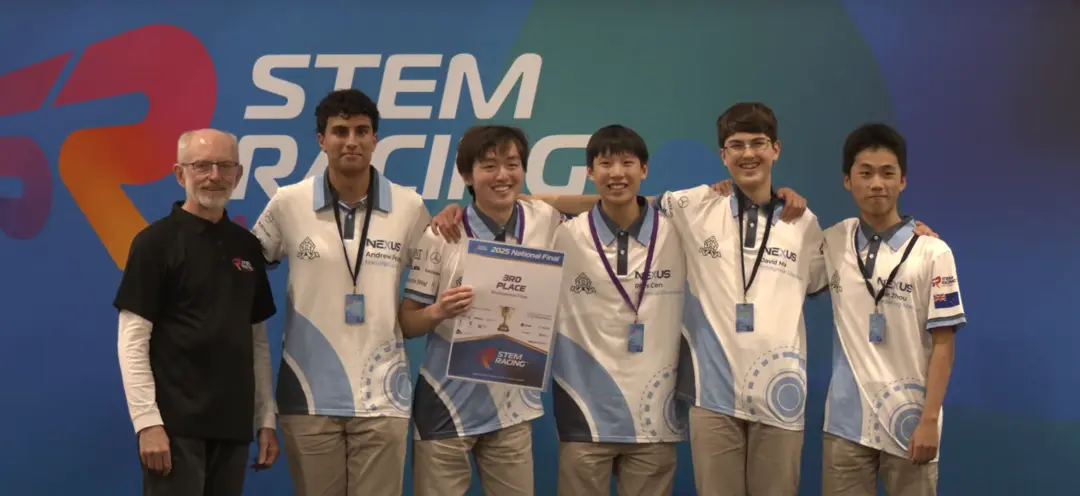
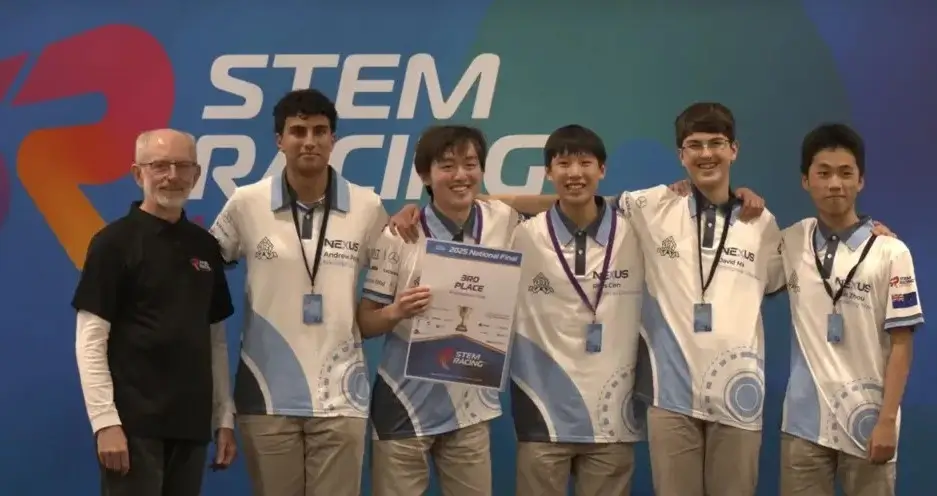
Update Images
Updated all images to more recent ones

diff --git a/index.html b/index.html
@@ -82,7 +82,7 @@
             </div>
             <div class="col d-flex">
                 <a href="https://www.stemracing.com/" class="sr logo d-flex align-items-center">
-                    <img id="sr-logo" src="assets/img/logos/stem-racing.png" height="40px" alt="STEM Racing Official Logo">
+                    <img id="sr-logo" src="assets/img/logos/stem-racing.webp" height="40px" alt="STEM Racing Official Logo">
                 </a>
                 <script>
                     const navbar = document.querySelector('.header');
@@ -91,10 +91,10 @@
 
                     window.addEventListener('scroll', () => {
                         if (window.scrollY > 100) {             // adjust scroll threshold
-                            logo.src = 'assets/img/logos/stem-racing-dark.png';           // alternate logo
+                            logo.src = 'assets/img/logos/stem-racing-dark.webp';           // alternate logo
                             bar.setAttribute("fill", "#3a3a3a");
                         } else {
-                            logo.src = 'assets/img/logos/stem-racing.png';          // original logo
+                            logo.src = 'assets/img/logos/stem-racing.webp';          // original logo
                             bar.setAttribute("fill", "#FFF");
                         }
                     });
@@ -122,7 +122,7 @@
     <!-- Hero Section -->
     <section id="hero" class="hero section dark-background">
 
-        <img src="assets/img/hero-bg.jpg" class="hero-bg" alt="STEM Racing Cars on the Track" data-aos="fade-in">
+        <img src="assets/img/hero-bg.webp" class="hero-bg" alt="Nexus Rebirth on Display at the State Finals" data-aos="fade-in">
         <div class="container text-center" data-aos="fade-up" data-aos-delay="100">
             <img src="assets/img/alt.webp" width="" class="img-fluid mxy-3 main-logo" alt="Nexus STEM Racing Team Logo">
             <h2>Australian National Finals</h2>
@@ -169,7 +169,7 @@
                 </div>
 
                 <div class="col-lg-6 order-2 order-lg-1 content" data-aos="fade-up" data-aos-delay="300">
-                    <img src="assets/img/logos/stem-racing-dark.png" height="50px" alt="STEM Racing Official Logo">
+                    <img src="assets/img/logos/stem-racing-dark.webp" height="50px" alt="STEM Racing Official Logo">
                     <hr>
                     <h4>What is STEM Racing?</h4>
                     <p class="fst-normal">
@@ -395,7 +395,7 @@
     <!-- Call To Action Section -->
     <section id="call-to-action" class="call-to-action section dark-background">
 
-        <img src="assets/img/portfolio/cars.webp" alt="Nexus LeapYear F1 cars ready to race">
+        <img src="assets/img/portfolio/call.webp" alt="Nexus celebrating 2nd Place at the State Finals">
 
         <div class="container">
 
@@ -438,73 +438,92 @@
 
                 <div class="row gy-4 isotope-container" data-aos="fade-up" data-aos-delay="200">
 
-                    <div class="col-lg-4 col-md-6 portfolio-item isotope-item">
+                    <div class="col-lg-3 col-md-6 portfolio-item isotope-item">
                         <a href="assets/img/portfolio/awards.webp" data-title="<strong>Nexus receiving 3rd Place</strong><br><small>Image Credit: Off the Track</small>" data-gallery="portfolio-gallery" class="glightbox preview-link">
                             <img src="assets/img/portfolio/awards.webp" class="img-fluid" alt="Nexus receiving 3rd place award at Australian National Finals">
                         </a>
                     </div>
 
-                    <div class="col-lg-4 col-md-6 portfolio-item isotope-item">
+                    <div class="col-lg-3 col-md-6 portfolio-item isotope-item">
                         <a href="assets/img/portfolio/manufacturing.webp" data-title="<strong>Christian manufacturing our 2025 State Finals Car</strong><br><small>Image Credit: Nexus</small>" data-gallery="portfolio-gallery" class="glightbox preview-link">
                             <img src="assets/img/portfolio/manufacturing.webp" class="img-fluid" alt="Christian manufacturing the Nexus 2025 State Finals car">
                         </a>
                     </div>
 
-                    <div class="col-lg-4 col-md-6 portfolio-item isotope-item">
+                    <div class="col-lg-3 col-md-6 portfolio-item isotope-item">
                         <a href="assets/img/portfolio/racing.webp" data-title="<strong>Rhys racing at the 2025 National Finals</strong><br><small>Image Credit: Off the Track</small>" data-gallery="portfolio-gallery" class="glightbox preview-link">
                             <img src="assets/img/portfolio/racing.webp" class="img-fluid" alt="Rhys racing Nexus LeapYear at 2025 National Finals">
                         </a>
                     </div>
 
-                    <div class="col-lg-4 col-md-6 portfolio-item isotope-item">
-                        <a href="assets/img/portfolio/folios.webp" data-title="<strong>Portfolio Submission at Nationals</strong><br><small>Image Credit: REA Foundation</small>" data-gallery="portfolio-gallery" class="glightbox preview-link">
-                            <img src="assets/img/portfolio/folios.webp" class="img-fluid" alt="Nexus engineering portfolios at National Finals">
-                        </a>
-                    </div>
-
-                    <div class="col-lg-4 col-md-6 portfolio-item isotope-item filter-branding">
+                    <div class="col-lg-3 col-md-6 portfolio-item isotope-item filter-branding">
                         <a href="assets/img/portfolio/cars.webp" data-title="<strong>LeapYear cars ready to race</strong><br><small>Image Credit: REA Foundation</small>" data-gallery="portfolio-gallery" class="glightbox preview-link">
                             <img src="assets/img/portfolio/cars.webp" class="img-fluid" alt="Nexus LeapYear F1 racing cars ready for competition">
                         </a>
                     </div>
 
-                    <div class="col-lg-4 col-md-6 portfolio-item isotope-item filter-product">
-                        <a href="assets/img/portfolio/track-setup.webp" data-title="<strong>Track Setup at the 2025 National Finals</strong><br><small>Image Credit: Off the Track</small>" data-gallery="portfolio-gallery" class="glightbox preview-link">
-                            <img src="assets/img/portfolio/track-setup.webp" class="img-fluid" alt="STEM Racing track setup at 2025 National Finals">
+                    <div class="col-lg-3 col-md-6 portfolio-item isotope-item filter-product">
+                        <a href="assets/img/portfolio/call.webp" data-title="<strong>Nexus receiving awards at the 2025 State Finals</strong><br><small>Image Credit: Nexus</small>" data-gallery="portfolio-gallery" class="glightbox preview-link">
+                            <img src="assets/img/portfolio/call.webp" class="img-fluid" alt="Nexus receiving awards at the 2025 State Finals">
                         </a>
                     </div>
 
-                    <div class="col-lg-4 col-md-6 portfolio-item isotope-item filter-books">
+                    <div class="col-lg-3 col-md-6 portfolio-item isotope-item filter-books">
                         <a href="assets/img/portfolio/interview-2.webp" data-title="<strong>Trackside at the 2025 National Finals</strong><br><small>Image Credit: REA Foundation</small>" data-gallery="portfolio-gallery" class="glightbox preview-link">
                             <img src="assets/img/portfolio/interview-2.webp" class="img-fluid" alt="Nexus team trackside at 2025 National Finals">
                         </a>
                     </div>
 
-                    <div class="col-lg-4 col-md-6 portfolio-item isotope-item filter-app">
+                    <div class="col-lg-3 col-md-6 portfolio-item isotope-item filter-app">
                         <a href="assets/img/portfolio/presentation.webp" data-title="<strong>Nexus 3rd Place Presentation</strong><br><small>Image Credit: REA Foundation</small>" data-gallery="portfolio-gallery" class="glightbox preview-link">
                             <img src="assets/img/portfolio/presentation.webp" class="img-fluid" alt="Nexus team being presented 3rd place award at National Finals">
                         </a>
                     </div>
 
-                    <div class="col-lg-4 col-md-6 portfolio-item isotope-item filter-product">
-                        <a href="assets/img/portfolio/interview.webp" data-title="<strong>Nexus preparing to race at the 2025 National Finals</strong><br><small>Image Credit: Off the Track</small>" data-gallery="portfolio-gallery" class="glightbox preview-link">
-                            <img src="assets/img/portfolio/interview.webp" class="img-fluid" alt="Nexus team preparing trackside for racing at 2025 National Finals">
+                    <div class="col-lg-3 col-md-6 portfolio-item isotope-item filter-product">
+                        <a href="assets/img/portfolio/celebration.webp" data-title="<strong>Nexus celebrating after winning Knockout Racing</strong><br><small>Image Credit: Nexus</small>" data-gallery="portfolio-gallery" class="glightbox preview-link">
+                            <img src="assets/img/portfolio/celebration.webp" class="img-fluid" alt="Nexus celebrating success">
                         </a>
                     </div>
 
-                    <div class="col-lg-4 col-md-6 portfolio-item isotope-item filter-product">
-                        <a href="assets/img/portfolio/painting.jpg" data-title="<strong>Christian painting our State Finals car</strong><br><small>Image Credit: Nexus</small>" data-gallery="portfolio-gallery" class="glightbox preview-link">
-                            <img src="assets/img/portfolio/painting.jpg" class="img-fluid" alt="Christian painting Nexus Rebirth - State Finals F1 car">
+                    <div class="col-lg-3 col-md-6 portfolio-item isotope-item filter-product">
+                        <a href="assets/img/portfolio/painting.webp" data-title="<strong>Christian painting our State Finals car</strong><br><small>Image Credit: Nexus</small>" data-gallery="portfolio-gallery" class="glightbox preview-link">
+                            <img src="assets/img/portfolio/painting.webp" class="img-fluid" alt="Christian painting Nexus Rebirth - State Finals F1 car">
                         </a>
                     </div>
 
-                    <div class="col-lg-4 col-md-6 portfolio-item isotope-item filter-product">
-                        <a href="assets/img/portfolio/file.jpg" data-title="<strong>Perfecting Nexus Rebirth - our States 2025 car.</strong><br><small>Image Credit: Nexus</small>" data-gallery="portfolio-gallery" class="glightbox preview-link">
-                            <img src="assets/img/portfolio/file.jpg" class="img-fluid" alt="Perfecting Nexus Rebirth F1 car for 2025 State Finals">
+                    <div class="col-lg-3 col-md-6 portfolio-item isotope-item filter-product">
+                        <a href="assets/img/portfolio/file.webp" data-title="<strong>Perfecting Nexus Rebirth - our States 2025 car.</strong><br><small>Image Credit: Nexus</small>" data-gallery="portfolio-gallery" class="glightbox preview-link">
+                            <img src="assets/img/portfolio/file.webp" class="img-fluid" alt="Perfecting Nexus Rebirth F1 car for 2025 State Finals">
                         </a>
                     </div>
 
-                </div>
+                    <div class="col-lg-3 col-md-6 portfolio-item isotope-item filter-product">
+                        <a href="assets/img/portfolio/certificates.webp" data-title="<strong>Nexus' State Finals Certificates Lined Up</strong><br><small>Image Credit: Nexus</small>" data-gallery="portfolio-gallery" class="glightbox preview-link">
+                            <img src="assets/img/portfolio/certificates.webp" class="img-fluid" alt="Nexus' State Finals Certificates">
+                        </a>
+                    </div>
+
+                    <div class="col-lg-3 col-md-6 portfolio-item isotope-item filter-product">
+                        <a href="assets/img/portfolio/racing_states.webp" data-title="<strong>Christian ready to race at the 2025 State Finals.</strong><br><small>Image Credit: Wyndham Tech School</small>" data-gallery="portfolio-gallery" class="glightbox preview-link">
+                            <img src="assets/img/portfolio/racing_states.webp" class="img-fluid" alt="Christian Racing Nexus Rebirth at '25 State Finals">
+                        </a>
+                    </div>
+
+                    <div class="col-lg-3 col-md-6 portfolio-item isotope-item filter-product">
+                        <a href="assets/img/portfolio/trade_display.webp" data-title="<strong>Other teams checking our Nexus' Trade Display.</strong><br><small>Image Credit: Wyndham Tech School</small>" data-gallery="portfolio-gallery" class="glightbox preview-link">
+                            <img src="assets/img/portfolio/trade_display.webp" class="img-fluid" alt="Nexus' Trade Display">
+                        </a>
+                    </div>
+
+                    <div class="col-lg-3 col-md-6 portfolio-item isotope-item">
+                        <a href="assets/img/portfolio/folios.webp" data-title="<strong>Portfolio Submission at Nationals</strong><br><small>Image Credit: REA Foundation</small>" data-gallery="portfolio-gallery" class="glightbox preview-link">
+                            <img src="assets/img/portfolio/folios.webp" class="img-fluid" alt="Nexus engineering portfolios at National Finals">
+                        </a>
+                    </div>
+
+
+                    </div>
 
             </div>
 
@@ -517,7 +536,7 @@
 <footer id="footer" class="footer dark-background">
 
     <div class="container copyright text-center">
-        <p>© Copyright <strong>Nexus</strong> 2025 – All Rights Reserved</p>
+        <p>© Copyright <strong>Nexus</strong> 2026 – All Rights Reserved</p>
         <div class="credits">
             Template designed by <a href="https://bootstrapmade.com/">BootstrapMade</a>
         </div>
